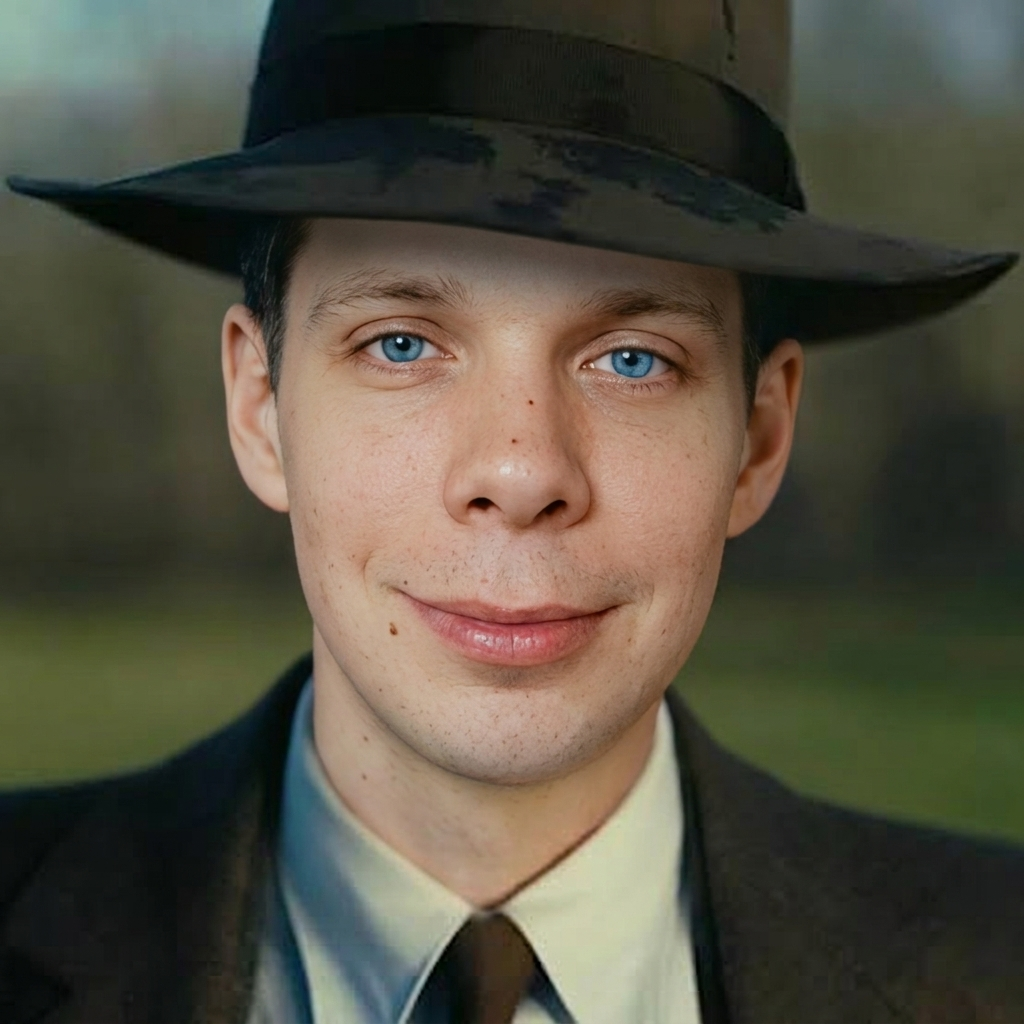
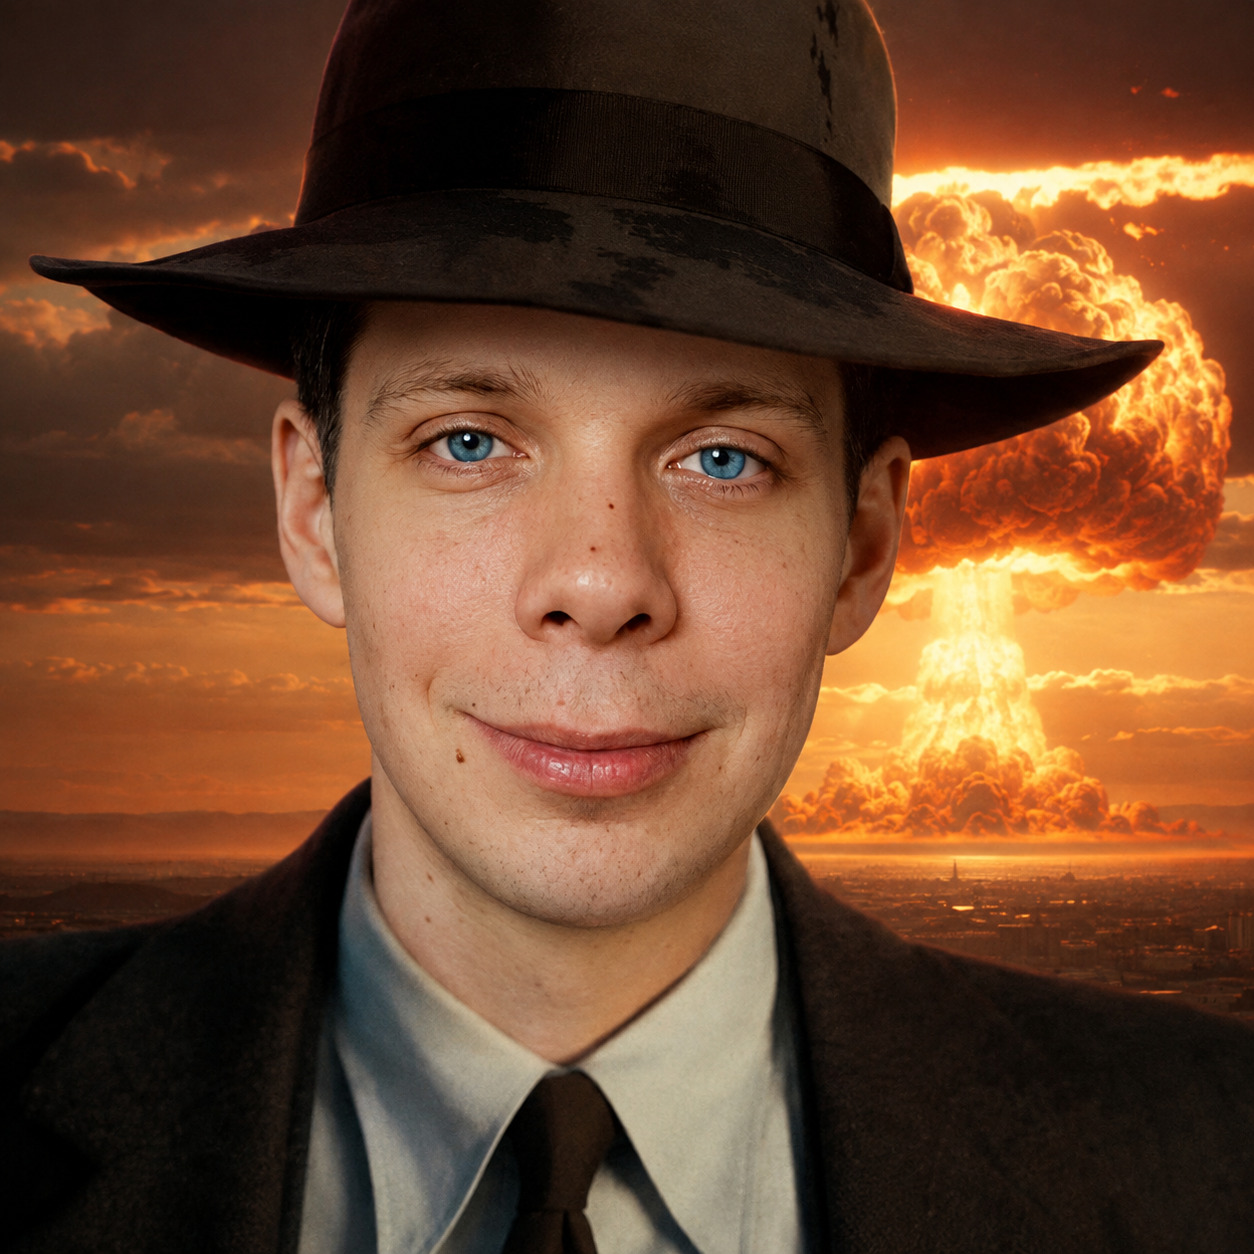
Додав нові файли

diff --git a/script.js b/script.js
@@ -13,19 +13,7 @@ const soundUrls = [
   "https://www.myinstants.com/media/sounds/ive-got-this-faaaaaaaaahhhhh.mp3",
   "https://www.myinstants.com/media/sounds/daddys-home.mp3",
   "https://www.myinstants.com/media/sounds/fart-meme-sound.mp3",
-  "https://www.myinstants.com/media/sounds/du-bist-gut-genug.mp3",
-  "https://www.myinstants.com/media/sounds/ecpu-polska.mp3",
-  "https://www.myinstants.com/media/sounds/ivona-zamknij-morde.mp3",
-  "https://www.myinstants.com/media/sounds/polish-toilet-refrain.mp3",
-  "https://www.myinstants.com/media/sounds/pan-jest-niemieckim-agentem.mp3",
-  "https://www.myinstants.com/media/sounds/kurrrrrwa.mp3",
-  "https://www.myinstants.com/media/sounds/romanceeeeeeeeeeeeee.mp3",
-  "https://www.myinstants.com/media/sounds/anime-ahh.mp3",
-  "https://www.myinstants.com/media/sounds/michael-jackson-hee-hee.mp3",
-  "https://www.myinstants.com/media/sounds/dun-dun-dun-sound-effect-brass_8nFBccR.mp3",
-  "https://www.myinstants.com/media/sounds/m-e-o-w.mp3",
-  "https://www.myinstants.com/media/sounds/undertakers-bell_2UwFCIe.mp3",
-  "https://www.myinstants.com/media/sounds/indian-song.mp3"
+  "https://www.myinstants.com/media/sounds/du-bist-gut-genug.mp3"
 ];
 
 // Єдиний "поточний" звук — щоб можна було зупинити попередній перед новим

diff --git a/styles.css b/styles.css
@@ -25,7 +25,7 @@ body {
   font-weight: 800;
   letter-spacing: 0.02em;
   padding: 1.2vh 4vw;
-  text-shadow: 0 2px 12px rgba(255, 0, 0, 0.35);
+  text-shadow: 0 2px 12px rgba(20, 207, 89, 0.35);
 }
 
 .grid {
